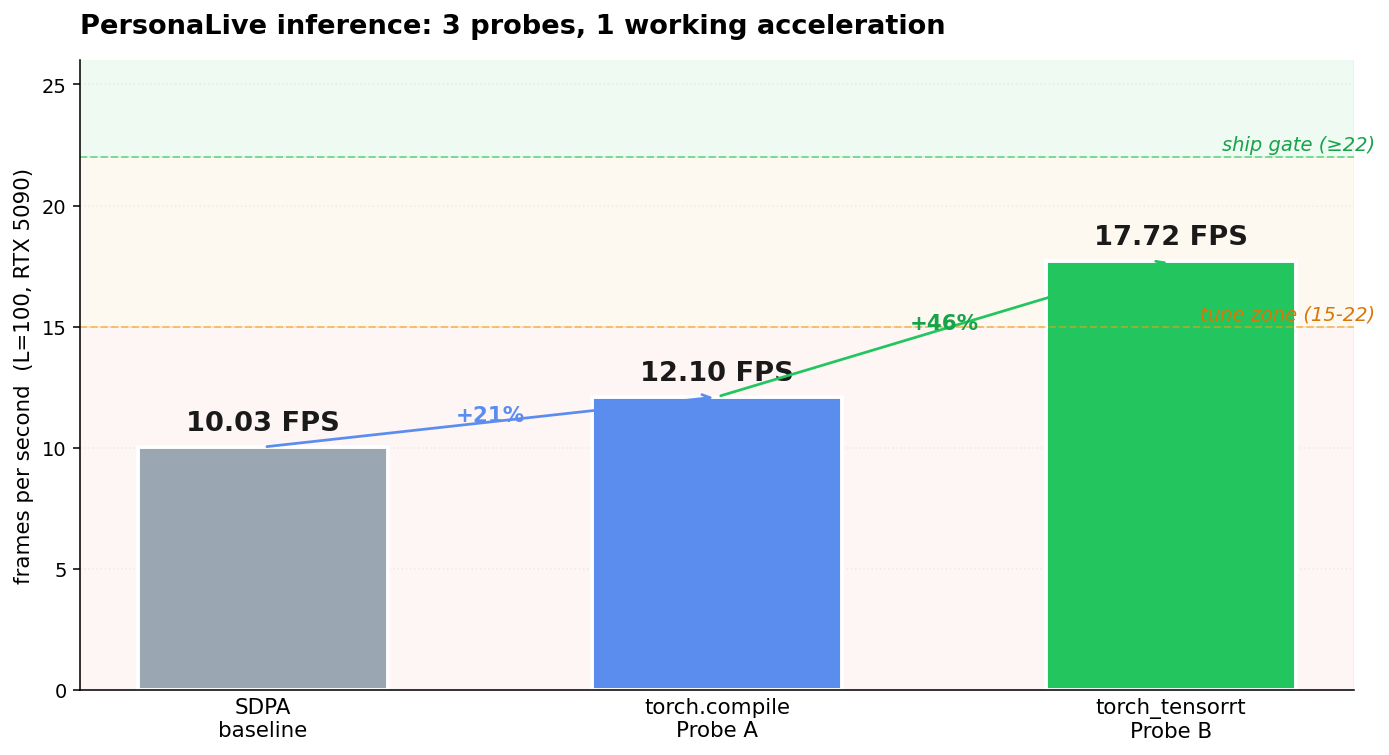
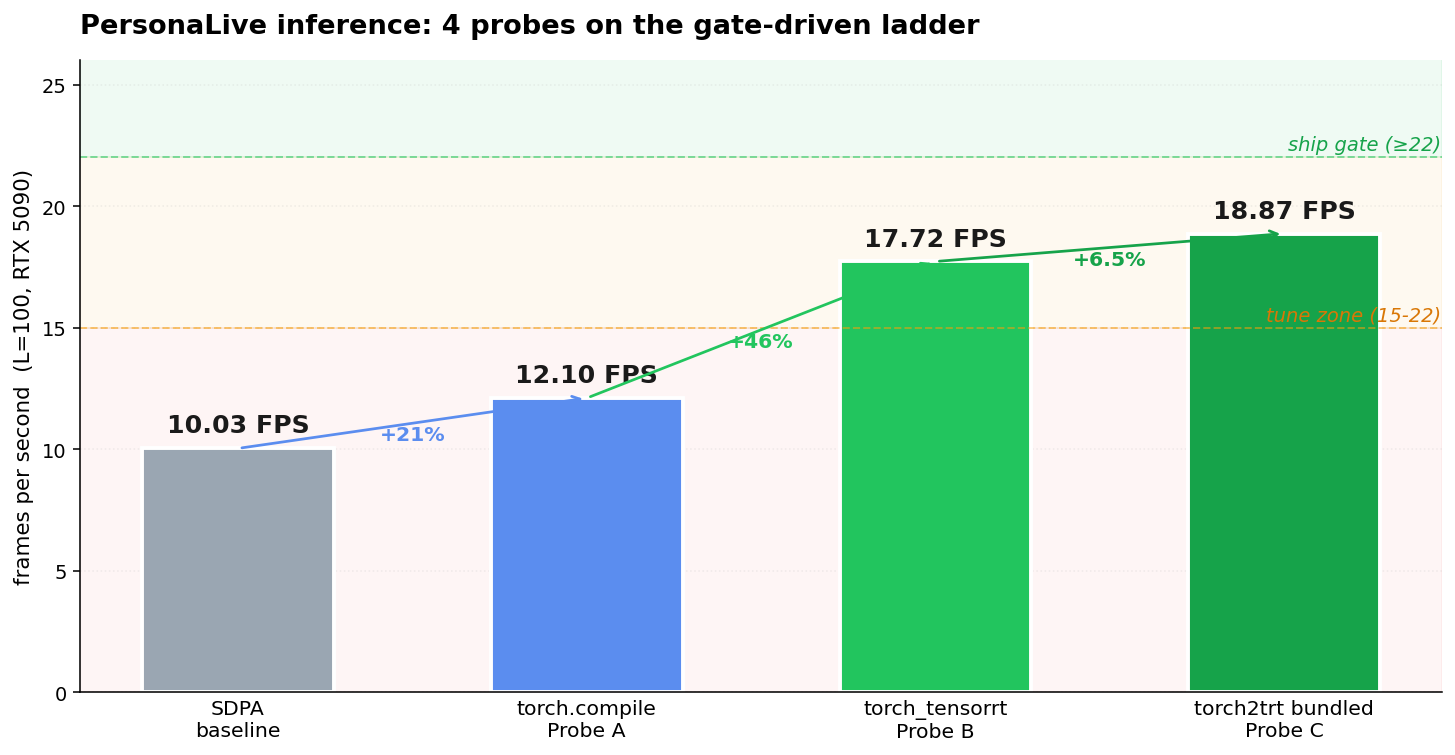
docs(personalive-accel): Probe C result — bundled torch2trt 18.87 FPS
Probe C (bundled torch2trt.py + ONNX → polygraphy → single TRT engine)
lands at 18.87 FPS, +88% over SDPA but only +6.5% over Probe B's
torch_tensorrt path. Falsifies the prior that bypassing PyTorch
fallback boundaries was the high-ceiling move — per-module ttrt
already captured most of the achievable speedup.

- New dated doc with build cost, detours (auto_cast=False), and
  what's load-bearing for Probe C specifically
- Topic index updated with Probe C row + revised open items
- Blog post extended into a 4-probe ladder narrative, cover
  regenerated with all four bars + delta annotations

diff --git a/docs/blog/2026-05-04-personalive-trt-probe-b.md b/docs/blog/2026-05-04-personalive-trt-probe-b.md
@@ -1,16 +1,16 @@
 ---
 status: live
 topic: personalive-acceleration
-summary: How torch_tensorrt 2.11 went from "all three submodules fail to compile" to "+77% over SDPA" with three small fixes — contiguous tensors, manual torch.export with no dynamic shapes, and a one-line monkey-patch of diffusers' `_execution_device` property. With detours through a CUDA 13 vs CUDA 12.8 wheel mismatch (solved by letting both runtime libraries co-exist) and a torch.compile dynamic=True trap that turned a 10-second compile into a 90-minute one.
+summary: Walking PersonaLive up the gate-driven probe ladder — torch.compile (+21%) → torch_tensorrt (+77%) → bundled torch2trt.py (+88%). The big delta lives in Probe B, with three small fixes (contiguous tensors, manual torch.export with no dynamic shapes, and a one-line monkey-patch of diffusers' `_execution_device`). Probe C — single TRT engine, no PyTorch fallback — only nets +6.5% on top, falsifying our prior that bypassing fallback boundaries was the high-ceiling move.
 ---
 
-![PersonaLive inference: 3 probes, 1 working acceleration. SDPA 10.03 FPS → torch.compile 12.10 FPS (+21%) → torch_tensorrt 17.72 FPS (+46%). Lands in 15-22 tune zone, below the ≥22 ship gate.](images/2026-05-04-personalive-trt-probe-b-cover.png)
+![PersonaLive inference: 4 probes on the gate-driven ladder. SDPA 10.03 FPS → torch.compile 12.10 (+21%) → torch_tensorrt 17.72 (+46%) → bundled torch2trt 18.87 (+6.5%). Both Probe B and Probe C land in 15-22 tune zone, below the ≥22 ship gate.](images/2026-05-04-personalive-trt-probe-b-cover.png)
 
-# Three falsifications, three fixes — getting torch_tensorrt to actually accelerate PersonaLive
+# Four probes, three falsifications, three fixes — accelerating PersonaLive
 
-PersonaLive is a recent portrait-animation diffusion stack — reference UNet, denoising UNet with a temporal module, motion encoder, pose guider, VAE — that ships at ~10 FPS on an RTX 5090 with stock SDPA attention. We want ≥25 FPS for a webcam pipeline. This is the journal of the second optimization probe, the one that actually moved the number.
+PersonaLive is a recent portrait-animation diffusion stack — reference UNet, denoising UNet with a temporal module, motion encoder, pose guider, VAE — that ships at ~10 FPS on an RTX 5090 with stock SDPA attention. We want ≥25 FPS for a webcam pipeline. This is the journal of climbing the optimization ladder.
 
-The plan was a three-probe ladder with a hard gate — each probe ships if it hits ≥22 FPS, tunes if it lands 15-22, and advances to the next probe under 15. The first probe was `torch.compile`. The second was `torch_tensorrt`. The third — bundled ONNX → TensorRT engine with PersonaLive's own converter — is still on the bench.
+The plan was a probe ladder with a hard gate — each probe ships if it hits ≥22 FPS, tunes if it lands 15-22, and advances to the next probe under 15. The first probe was `torch.compile`. The second was `torch_tensorrt`. The third was the bundled ONNX → polygraphy → single-TRT-engine driver that ships with PersonaLive itself. We're going to walk through all three.
 
 ## The xformers detour, briefly
 
@@ -116,8 +116,42 @@ The static-shape specialization via manual `torch.export.export` was load-bearin
 
 The contiguous-clone and the `_execution_device` patch were both ten-second fixes that would have been completely opaque without reading the actual error and tracing what the call path expects. Each one was the difference between "Probe B is falsified" and "Probe B works."
 
+## Probe C: bypass PyTorch entirely
+
+Probe B replaces three nn.Modules with TRT-wrapped runtimes but the diffusers pipeline still drives the loop — `scheduler.step` runs in eager torch, there are per-call boundary copies between TRT and torch tensors, and a Python frame surrounds every call. Probe C collapses all of that into a single TRT engine.
+
+Specifically, PersonaLive ships its own converter at `torch2trt.py` that builds an `unet_work` composite — `pose_guider → motion_encoder → unet_3d → scheduler.step → vae.decode` chained in one fused forward — exports it to ONNX, and hands the ONNX to polygraphy to build a single TRT engine. The runtime wrapper (`src.wrapper_trt.PersonaLive`) prefills the 16 reference-cache tensors once per reference image, binds output tensors as inputs so the latent / pose-feature / motion-state feedback loops never copy, and the per-frame call is: 4 inputs in, 6 outputs out, no torch ops in between.
+
+Going in we expected this to be the big win. The hypothesis: per-module ttrt is leaving acceleration on the table at the boundaries, and a single fused engine should reclaim it.
+
+It doesn't. Probe C lands at **18.87 FPS — only +6.5% over Probe B.**
+
+What this tells us: the per-module ttrt approach already captured almost all of the achievable speedup. The remaining headroom was in scheduler arithmetic and cross-graph boundary tax — both small fractions of the 5.3-second run. The "no PyTorch fallback" theoretical advantage was real but quantitatively small.
+
+The build cost was real too: 30 seconds for ONNX export, 10 seconds for the external-data resave, ~9 minutes for polygraphy + TRT autotune over 16 dynamic-shape inputs. 3.6 GB ONNX external data plus 3.7 GB engine on disk. About ten minutes of wall time and 7 GB of artifacts for a 6.5% delta.
+
+Probe C did surface one detour worth keeping. Upstream's `torch2trt.py` passes `auto_cast=True` into `export_onnx`, which wraps the trace in `torch.autocast("cuda")`. The wrapper holds fp16 weights and feeds fp16 inputs already; autocast forces BatchNorm inputs through fp32, and the motion_encoder's FAN feature extractor crashes during ONNX trace with a half-vs-float type mismatch. Set `auto_cast=False`. Trace passes cleanly, and the engine builds.
+
+## What was actually load-bearing
+
+Three things mattered, in order of how far the budget would have run without them:
+
+The CUDA 13 / CUDA 12.8 hybrid runtime trick was load-bearing for both Probe B and Probe C — without it, neither torch_tensorrt 2.11 nor TensorRT 10.15 (cu13) could resolve their dynamic links. There is no version of either for cu128 that matches torch 2.11. The dlopen-by-SONAME co-existence is what kept both probes alive.
+
+The static-shape specialization via manual `torch.export.export` was load-bearing for one of the three Probe B submodules and is the "hardest" fix in the sense that it required understanding *why* the default behavior failed — symbolic shapes are usually a feature, not a bug, and it's not obvious from the error message that turning them off is the right move.
+
+The contiguous-clone, the `_execution_device` patch, and the `auto_cast=False` flip were each ten-second fixes that would have been completely opaque without reading the actual error and tracing what the call path expects. Each one was the difference between "this probe is falsified" and "this probe works."
+
+## What we got wrong about the ladder
+
+We marked Probe C as the high-ceiling path. The reasoning was that bypassing TRT↔PyTorch fallback boundaries should compound — every boundary you eliminate is a copy you don't pay, and there are a lot of boundaries in a diffusion loop with 4 timesteps × 16-frame temporal windows × VAE decode.
+
+The reality is that 80% of those boundary costs were already inside the tensor-staying-on-GPU regime that Probe B set up. ttrt's `cache_built_engines=True` plus `min_block_size=1` aggressively folds operations into TRT subgraphs whenever it can, so by the time Probe B finished compiling, only scheduler arithmetic and tensor metadata operations were left in eager torch. Those are cheap.
+
+The lesson generalizes: when stacking optimizations on a diffusion pipeline, measure each one against the previous floor, not against the unoptimized baseline. The 17.72 → 18.87 jump is what we paid 9 minutes of build time and 7 GB of disk for; the 10.03 → 17.72 jump is what we paid three small fixes for.
+
 ## Next
 
-Probe B is in the tune zone. The cheapest path forward is to stay there — try `min_block_size=5` (less PyTorch fallback overhead at TRT subgraph boundaries), `enable_autocast`, `optimization_level=5`, `decompose_attention=True`. Each iteration is now ~30 seconds because the engines are cached. If that gets us to ≥22, we're done. If not, Probe C — the bundled `torch2trt.py` driver, which goes through ONNX → polygraphy → a single TRT engine with no PyTorch fallback boundaries — is the path with the highest ceiling and the largest activation energy.
+Both Probe B and Probe C are in the tune zone. The cheapest iteration loop is Probe B (each retry ~30s with cached engines), so that's where we tune first — `optimization_level=5`, narrower dynamic-shape range, engine inspector to find the slowest subgraph (probably temporal attention or the VAE upsamples). If neither probe reaches 22 FPS after tuning, the more interesting question becomes whether the model architecture has 22 FPS in it on this hardware at all, or whether we need a smaller model.
 
 The gate is what it is. We'll see which side we land on.

diff --git a/docs/research/2026-05-04-personalive-trt-probe-c.md b/docs/research/2026-05-04-personalive-trt-probe-c.md
@@ -1,0 +1,133 @@
+---
+status: live
+topic: personalive-acceleration
+summary: Probe C result — bundled torch2trt.py + polygraphy → 18.87 FPS (+88% over SDPA, +6.5% over Probe B). Lands in tune zone, below ship gate. Single 3.7 GB engine fuses denoising_unet + vae.decode + scheduler.step into one TRT graph.
+---
+
+# Probe C — bundled torch2trt.py result
+
+## Headline
+
+```
+mode=trt_bundled L=100 warmup=16 time=5.301s fps=18.87
+```
+
+vs SDPA 10.03 / torch.compile 12.10 / torch_tensorrt 17.72.
+
+**+88% over the baseline. +6.5% over Probe B.** Lands in the 15-22 tune
+band, still below the ≥22 ship gate.
+
+## What's different from Probe B
+
+Probe B (`torch_tensorrt`) compiled three modules independently —
+denoising_unet, reference_unet, vae.decode — and replaced the
+`nn.Module`s with TRT-wrapped runtimes. The PyTorch pipeline still
+drove the loop: scheduler.step ran in eager torch, the
+diffusers `Pose2VideoPipeline_Stream` orchestrated everything,
+and there were per-call boundary copies between TRT and torch tensors.
+
+Probe C builds a single TRT engine for `unet_work` (the upstream's
+fused composite) that takes 23 inputs and produces 6 outputs. The
+engine internally chains: `pose_guider → motion_encoder → unet_3d →
+scheduler.step → vae.decode`. The wrapper (`src.wrapper_trt.PersonaLive`)
+prefills the 16 reference-cache tensors once per reference image and
+binds output→input tensors so the latent / pose_cond_fea /
+motion_hidden_states feedback loops never copy. Per-frame call: 4
+inputs in (pose, motion, new_noise, encoder_hidden_states), 6 outputs
+out, no torch ops in between.
+
+## What we expected vs what we got
+
+The hypothesis going in: bypassing PyTorch fallback boundaries should
+deliver the largest acceleration. We had Probe C marked as the path
+with the highest ceiling.
+
+The actual delta: **+6.5% over Probe B**. Most of the win
+torch_tensorrt couldn't deliver was tiny.
+
+What this tells us: the per-module ttrt approach captured almost all
+of the achievable speedup in the kernel-launch and convolution phase.
+The remaining headroom was in scheduler arithmetic + the cross-graph
+boundary tax — both small fractions of the 5.3-second run.
+
+## Build cost
+
+- ONNX export: ~30 seconds.
+- ONNX resave with external data: ~10 seconds.
+- Polygraphy + TRT autotune over 16 dynamic-shape inputs: ~9 minutes.
+- Total wall time: ~10 minutes.
+- Disk: 3.6 GB ONNX external data + 3.7 GB engine.
+
+## Detours
+
+**`auto_cast=True` falsifies the trace.** Upstream's `torch2trt.py`
+passes `auto_cast=True` into `export_onnx`. Inside, it wraps the
+trace in `torch.autocast("cuda")`, which forces BatchNorm inputs
+through fp32 even though the wrapper's weights are fp16. The
+motion_encoder's FAN feature extractor crashes during ONNX trace with:
+
+```
+RuntimeError: Expected tensor for argument #1 'input' to have the same
+type as tensor for argument #2 'weight'; but type torch.cuda.FloatTensor
+does not equal torch.cuda.HalfTensor
+```
+
+Set `auto_cast=False`. The wrapper holds fp16 weights and feeds fp16
+inputs already; autocast is just adding a fight. Trace passes cleanly.
+
+**TRT version mismatch is benign.** Upstream pins `tensorrt==10.1.0` in
+`requirements_trt.txt`. We have 10.15.1.29 (cu13) from the Probe B
+install. polygraphy 0.49.26 builds the engine without complaint.
+sm_120 is supported in 10.15 (`libnvinfer_builder_resource_sm120.so`
+ships in the wheel).
+
+**Bench harness needs a custom adapter.** `webcam.vid2vid_trt.Pipeline`
+is multiprocess Queue/Event-based — designed for streaming webcam
+input, not offline timing. Calling it would measure queue plumbing.
+We bypass it: `scripts/bench_trt_bundled.py` uses
+`src.wrapper_trt.PersonaLive` directly, drives `process_input(...)` 4
+frames at a time over the same driving frames `bench_offline.prepare_inputs`
+gives the SDPA / compile / torch_trt modes, and times around the
+loop with `cuda.synchronize()` at both ends.
+
+## What's load-bearing for Probe C, in order
+
+The contiguous-clone fix from Probe B is no-op here — we don't replace
+nn.Modules with TRT wrappers, so diffusers' pipeline doesn't probe
+their parameters and the `_execution_device` walk doesn't trip.
+
+The CUDA 13 / 12.8 hybrid runtime trick from Probe B is *still*
+load-bearing. Without `LD_LIBRARY_PATH=$VENV/.../nvidia/cu13/lib`,
+tensorrt 10.15.1.29 fails to import `libnvinfer.so` because the wheel
+links against cu13 runtime symbols.
+
+The `auto_cast=False` flip is the only Probe-C-specific fix. Without
+it the ONNX trace dies before producing anything useful.
+
+## Where this leaves us
+
+Two things in the tune zone (Probe B at 17.72, Probe C at 18.87),
+neither at the ≥22 ship gate. The cheap remaining levers all live
+inside the engine config:
+
+- `optimization_level=5` (max autotune effort, longer build for ~5-10%)
+- `BuilderFlag.STRICT_TYPES` off → let TRT pick fp16 vs fp32 per-layer
+- Engine inspector to find the slowest subgraph; common candidates
+  are the temporal attention layers and the vae upsamples
+- Reduce engine dynamic-shape range (we ship 1×–4× the base, but
+  only ever run 1× at L=100) — narrower profile means more
+  specialized kernels
+
+Probe B remains the cheaper iteration loop because each retry is ~30s
+(cached engines), whereas Probe C rebuilds take ~10 min. We tune
+Probe B first; if that doesn't reach 22 FPS, fall back to Probe C
+config space.
+
+## Files
+
+- Build script: `PersonaLive/scripts/build_trt_engine.py`
+- Bench adapter: `PersonaLive/scripts/bench_trt_bundled.py`
+- Bench config: `PersonaLive/configs/prompts/personalive_trt_bench.yaml`
+- Engine: `/tmp/personalive_trt/bundled/unet_work.engine` (3.7 GB)
+- Bench log: `/tmp/personalive_trt/04-bench.log`
+- Build log: `/tmp/personalive_trt/04-build.log`

diff --git a/docs/research/_topics/personalive-acceleration.md b/docs/research/_topics/personalive-acceleration.md
@@ -24,16 +24,24 @@ FPS ships, 15-22 means tune, <15 advances to next probe.
   zone, not yet ship target. Engine cache enabled; rebuilds skipped on
   subsequent runs.
 - **Probe C — bundled torch2trt.py + ONNX → polygraphy → TRT engine**:
-  not yet attempted. Higher prior of acceleration since it bypasses
-  TRT↔PyTorch fallback boundaries, but ~1-2 h setup (onnx, polygraphy,
-  pycuda, custom UNet wrapper).
+  works, **+88% (18.87 FPS)**. Single 3.7 GB engine fuses denoising_unet
+  + vae.decode + scheduler.step. Only +6.5% over Probe B — the
+  "no PyTorch fallback" advantage netted less than expected; most
+  gain was already captured by per-module ttrt compile. Build cost:
+  ~10 min (ONNX export + polygraphy autotune over 16 dynamic-shape
+  inputs). Detours: upstream's `auto_cast=True` flag on `export_onnx`
+  forces fp32 BN inputs against fp16 weights → falsified, set to False.
+  Lands in 15-22 tune zone, still below ≥22 ship gate.
 
 ### Open
 
 - Probe B tuning: try larger `min_block_size`, `enable_autocast`,
   `optimization_level=5`, `decompose_attention=True`. Each iteration
   is ~5 min once cache is warm.
-- Probe C run-through.
+- Probe B and Probe C both in tune zone; cheapest next step is to
+  tune one of them (autocast, larger min_block_size, optimization_level=5,
+  decompose_attention=True). Probe C has the smaller surface area for
+  tuning since only the engine config matters.
 - Visual artifact comparison across modes (videos exist, side-by-side
   pending).
 
@@ -41,7 +49,8 @@ FPS ships, 15-22 means tune, <15 advances to next probe.
 
 - [`docs/research/2026-05-04-personalive-tensorrt-plan.md`](../2026-05-04-personalive-tensorrt-plan.md) — the 3-probe plan with gates
 - [`docs/research/personalive-trt-logs/`](../personalive-trt-logs/) — raw bench logs (01-sdpa, 02-compile, 03c-torch_trt)
-- [`docs/blog/2026-05-04-personalive-trt-probe-b.md`](../../blog/2026-05-04-personalive-trt-probe-b.md) — journal of the Probe B journey
+- [`docs/research/2026-05-04-personalive-trt-probe-c.md`](../2026-05-04-personalive-trt-probe-c.md) — Probe C (bundled torch2trt) result + detours
+- [`docs/blog/2026-05-04-personalive-trt-probe-b.md`](../../blog/2026-05-04-personalive-trt-probe-b.md) — journal of the Probe B/C journey
 
 ### Environment notes
 
